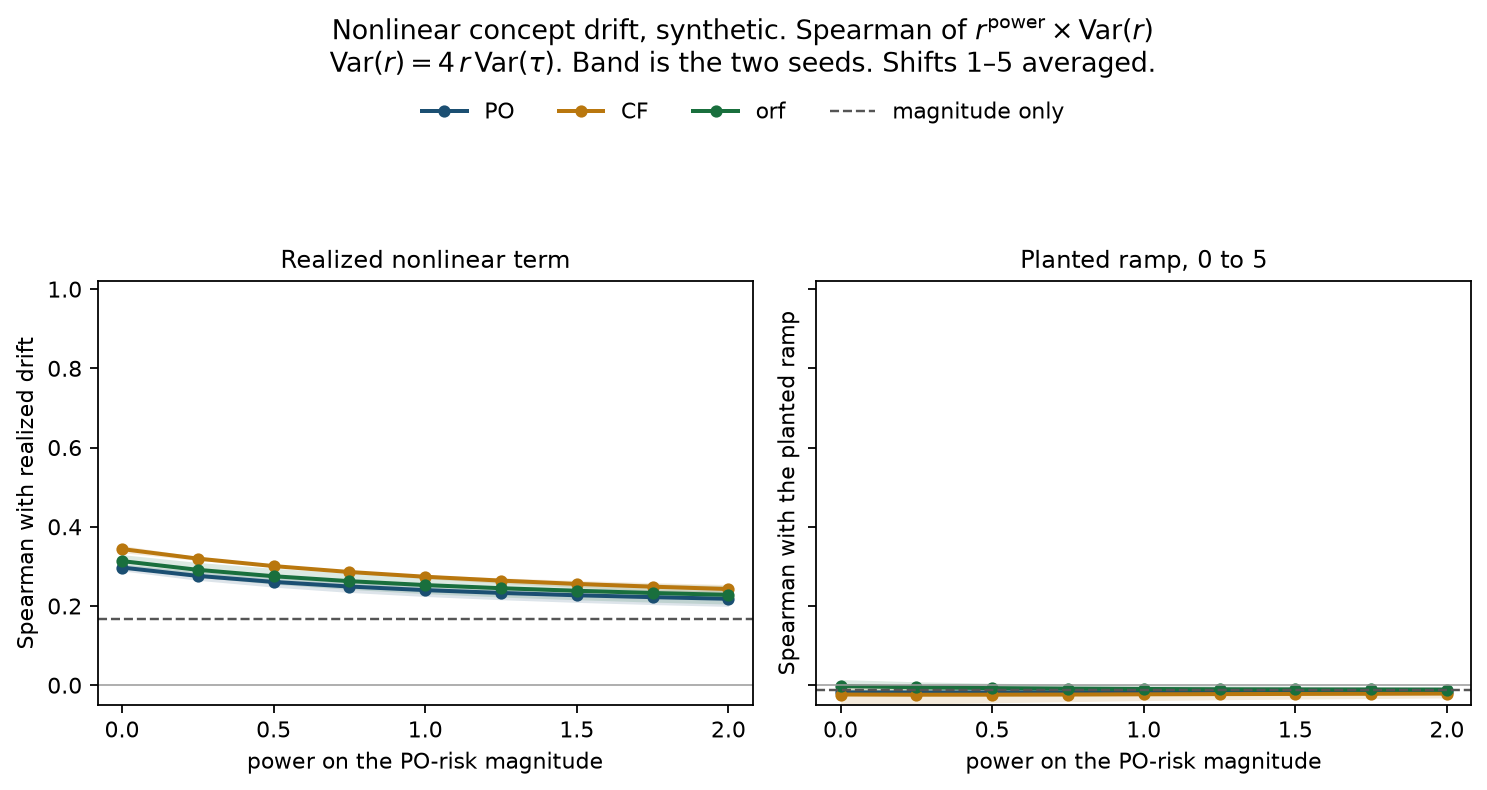
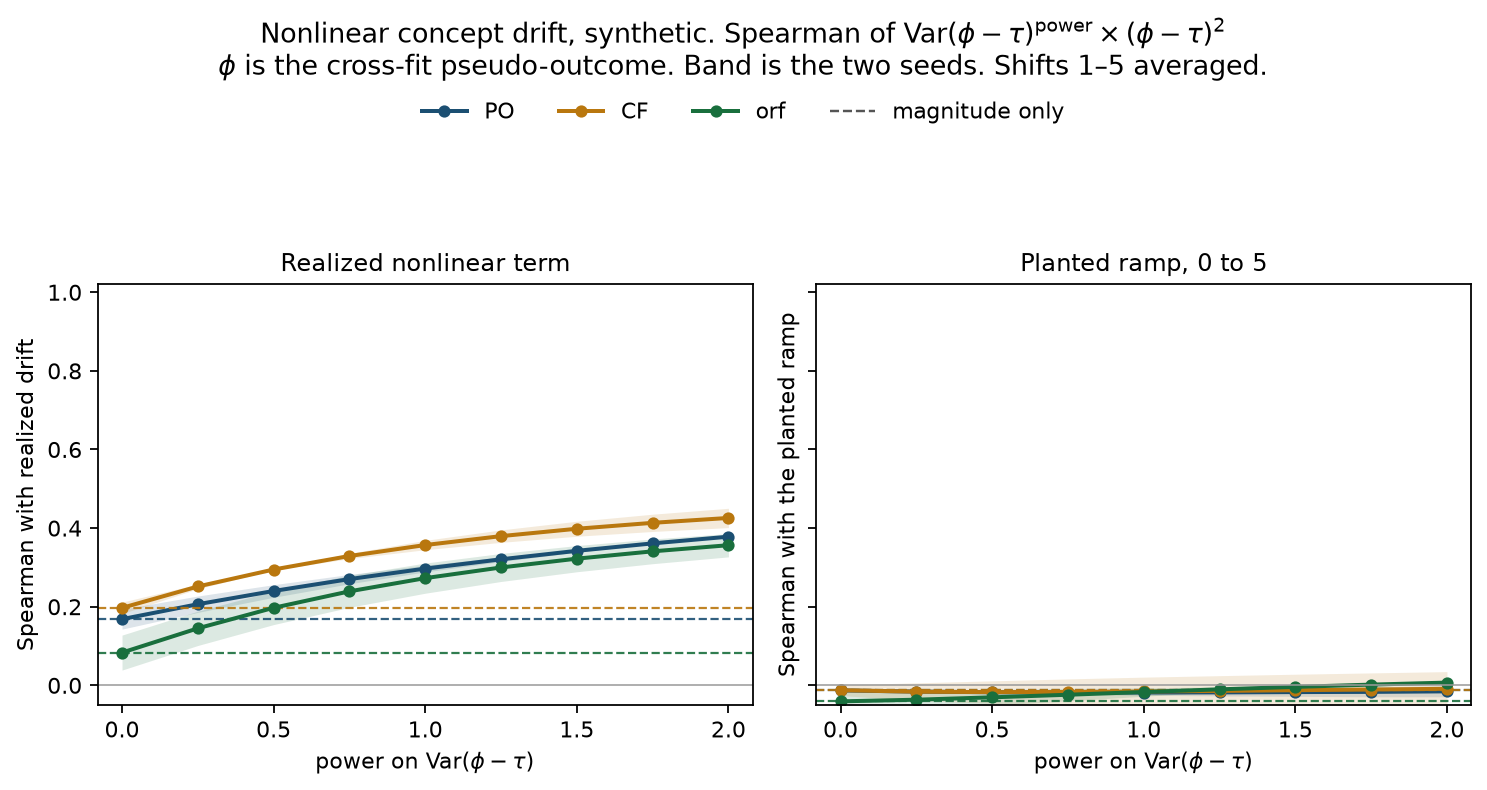
Deliver the synthetic nonlinear concept-drift power figure.
The score is Var(tau)^power times the squared residual. Shifts 1-5 are in, and the planted ramp stays near zero while the realized nonlinear term rises with the power.

diff --git a/experiments/po_ood_rank/results/RESULTS.md b/experiments/po_ood_rank/results/RESULTS.md
@@ -61,19 +61,18 @@ Fits are in-sample. Nuisance outcome models are random forests and the propensit
 
 ## Nonlinear concept drift
 
-The linear concept drift above moves four coefficients by a ramp. The harder design redraws the second domain's sine, square, and interaction term and multiplies that term by `linspace(0, 5)`. `delta_beta` only rescales the nonlinear function, from `0.5` to `0.5 + delta_beta`. Covariates stay on the same AR(1) law, so a forest cannot see the ramp in `X`. The realized target is `|drift × ramp|`. The planted target is the row-order ramp itself.
+The linear concept drift above moves four coefficients by a ramp. The harder design redraws the second domain's sine, square, and interaction term and multiplies that term by `linspace(0, 5)`. `delta_beta` only rescales the nonlinear function, from `0.5` to `0.5 + delta_beta`. Covariates stay on the same AR(1) law. The realized target is `|drift × ramp|`. The planted target is the row-order ramp itself. Shift 0 is not a null for the realized target: the ramp is still there, and the nonlinear scale is `0.5`.
 
-This grid is synthetic only: `n = 2000` (1000 per domain), `p = 20`, shifts `{0,1,2,3,4,5}`, two seeds. The residual `r = (phi - tau)^2` is one five-fold held-out PO fit, shared by every curve, so the dashed magnitude line is the same for PO, CF, and orf. `Var(tau)` is that fit's out-of-fold jackknife for PO, and one full-sample standard-error squared for CF and orf. The score is still `r^power * Var(r)` with `Var(r) = 4 r Var(tau)`. Powers run from 0 to 2. Numbers below average shifts 1–5.
+This grid is synthetic only: `n = 2000` (1000 per domain), `p = 20`, shifts `{0,1,2,3,4,5}`, two seeds. The pseudo-outcome `phi` is one five-fold held-out doubly robust fit. Each model then uses its own `tau`: the PO forest's out-of-fold fit, or one full-sample causal forest or orthogonal forest. The score is `Var(phi - tau) ** power * (phi - tau) ** 2`, and with `phi` held fixed that variance is `Var(tau)`. Power 0 is the squared residual. Powers run from 0 to 2. Numbers below average shifts 1–5.
 
 | Model | Power 0 vs realized | Power 2 vs realized | vs planted ramp | `Var(tau)` vs ramp |
 | --- | ---: | ---: | ---: | ---: |
-| PO | 0.30 | 0.22 | −0.02 | 0.03 |
-| CF | 0.34 | 0.24 | −0.02 | 0.03 |
-| orf | 0.31 | 0.23 | 0.00 | 0.09 |
-| magnitude only | 0.17 | 0.17 | −0.01 |  |
+| PO | 0.17 | 0.38 | −0.02 | 0.03 |
+| CF | 0.20 | 0.43 | −0.01 | 0.03 |
+| orf | 0.08 | 0.36 | −0.04 to 0.01 | 0.09 |
 
-The planted row order is not recovered. Spearman of the score against the ramp sits on zero at every power, and `Var(tau)` against that ramp is 0.03 for PO and CF, 0.09 for orf. The rows are iid; the ramp is an index, and the nonlinear coefficients are redrawn, so the index is not a function of `X`.
+The planted row order is not recovered. Spearman of the score against the ramp stays within about −0.04 and 0.01 at every power. `Var(tau)` against that ramp is 0.03 for PO and CF, 0.09 for orf. The rows are iid and the ramp is an index, so a function of `X` has nothing to order.
 
-The realized size of the nonlinear term is only weakly ordered. Power 0 is the top of a low curve: CF 0.34, orf 0.31, PO 0.30, against a residual of 0.17. Raising the power pulls every curve back toward that residual, down to 0.22–0.24 at power 2. The seed band on the shift average is about 0.02 at power 0 and about 0.02–0.05 at power 2. Raising `delta_beta` from 1 to 5 moves the power-0 CF correlation from 0.32 to 0.36.
+The realized size of the nonlinear term is only partly ordered, and the variance weight helps. The squared residual alone sits at 0.17 (PO), 0.20 (CF), and 0.08 (orf). Raising the power on `Var(tau)` lifts those curves to 0.38, 0.43, and 0.36 at power 2. The two seeds, after averaging shifts 1–5, differ by about 0.03–0.05 for PO and CF, and by about 0.09 for orf at power 0. Moving `delta_beta` from 1 to 5 barely changes the level: CF at power 2 stays between 0.42 and 0.44.
 
-On the linear concept drift the same realized Spearman sits near 0.55 (PO) and 0.47 (CF, orf), flat on the residual. The nonlinear term keeps a small variance lift at power 0 and loses it as the exponent grows. The figure is `nonlinear_concept_power.png`.
+The same climb appears at shift 0, where the nonlinear scale is only the baseline `0.5`: CF realized Spearman goes from 0.16 to 0.43. The lift is the variance reweighting the residual toward larger nonlinear terms, not a response to a bigger `delta_beta`. On the linear concept drift the realized Spearman sits near 0.55 and does not need this exponent. The figure is `nonlinear_concept_power.png`.
